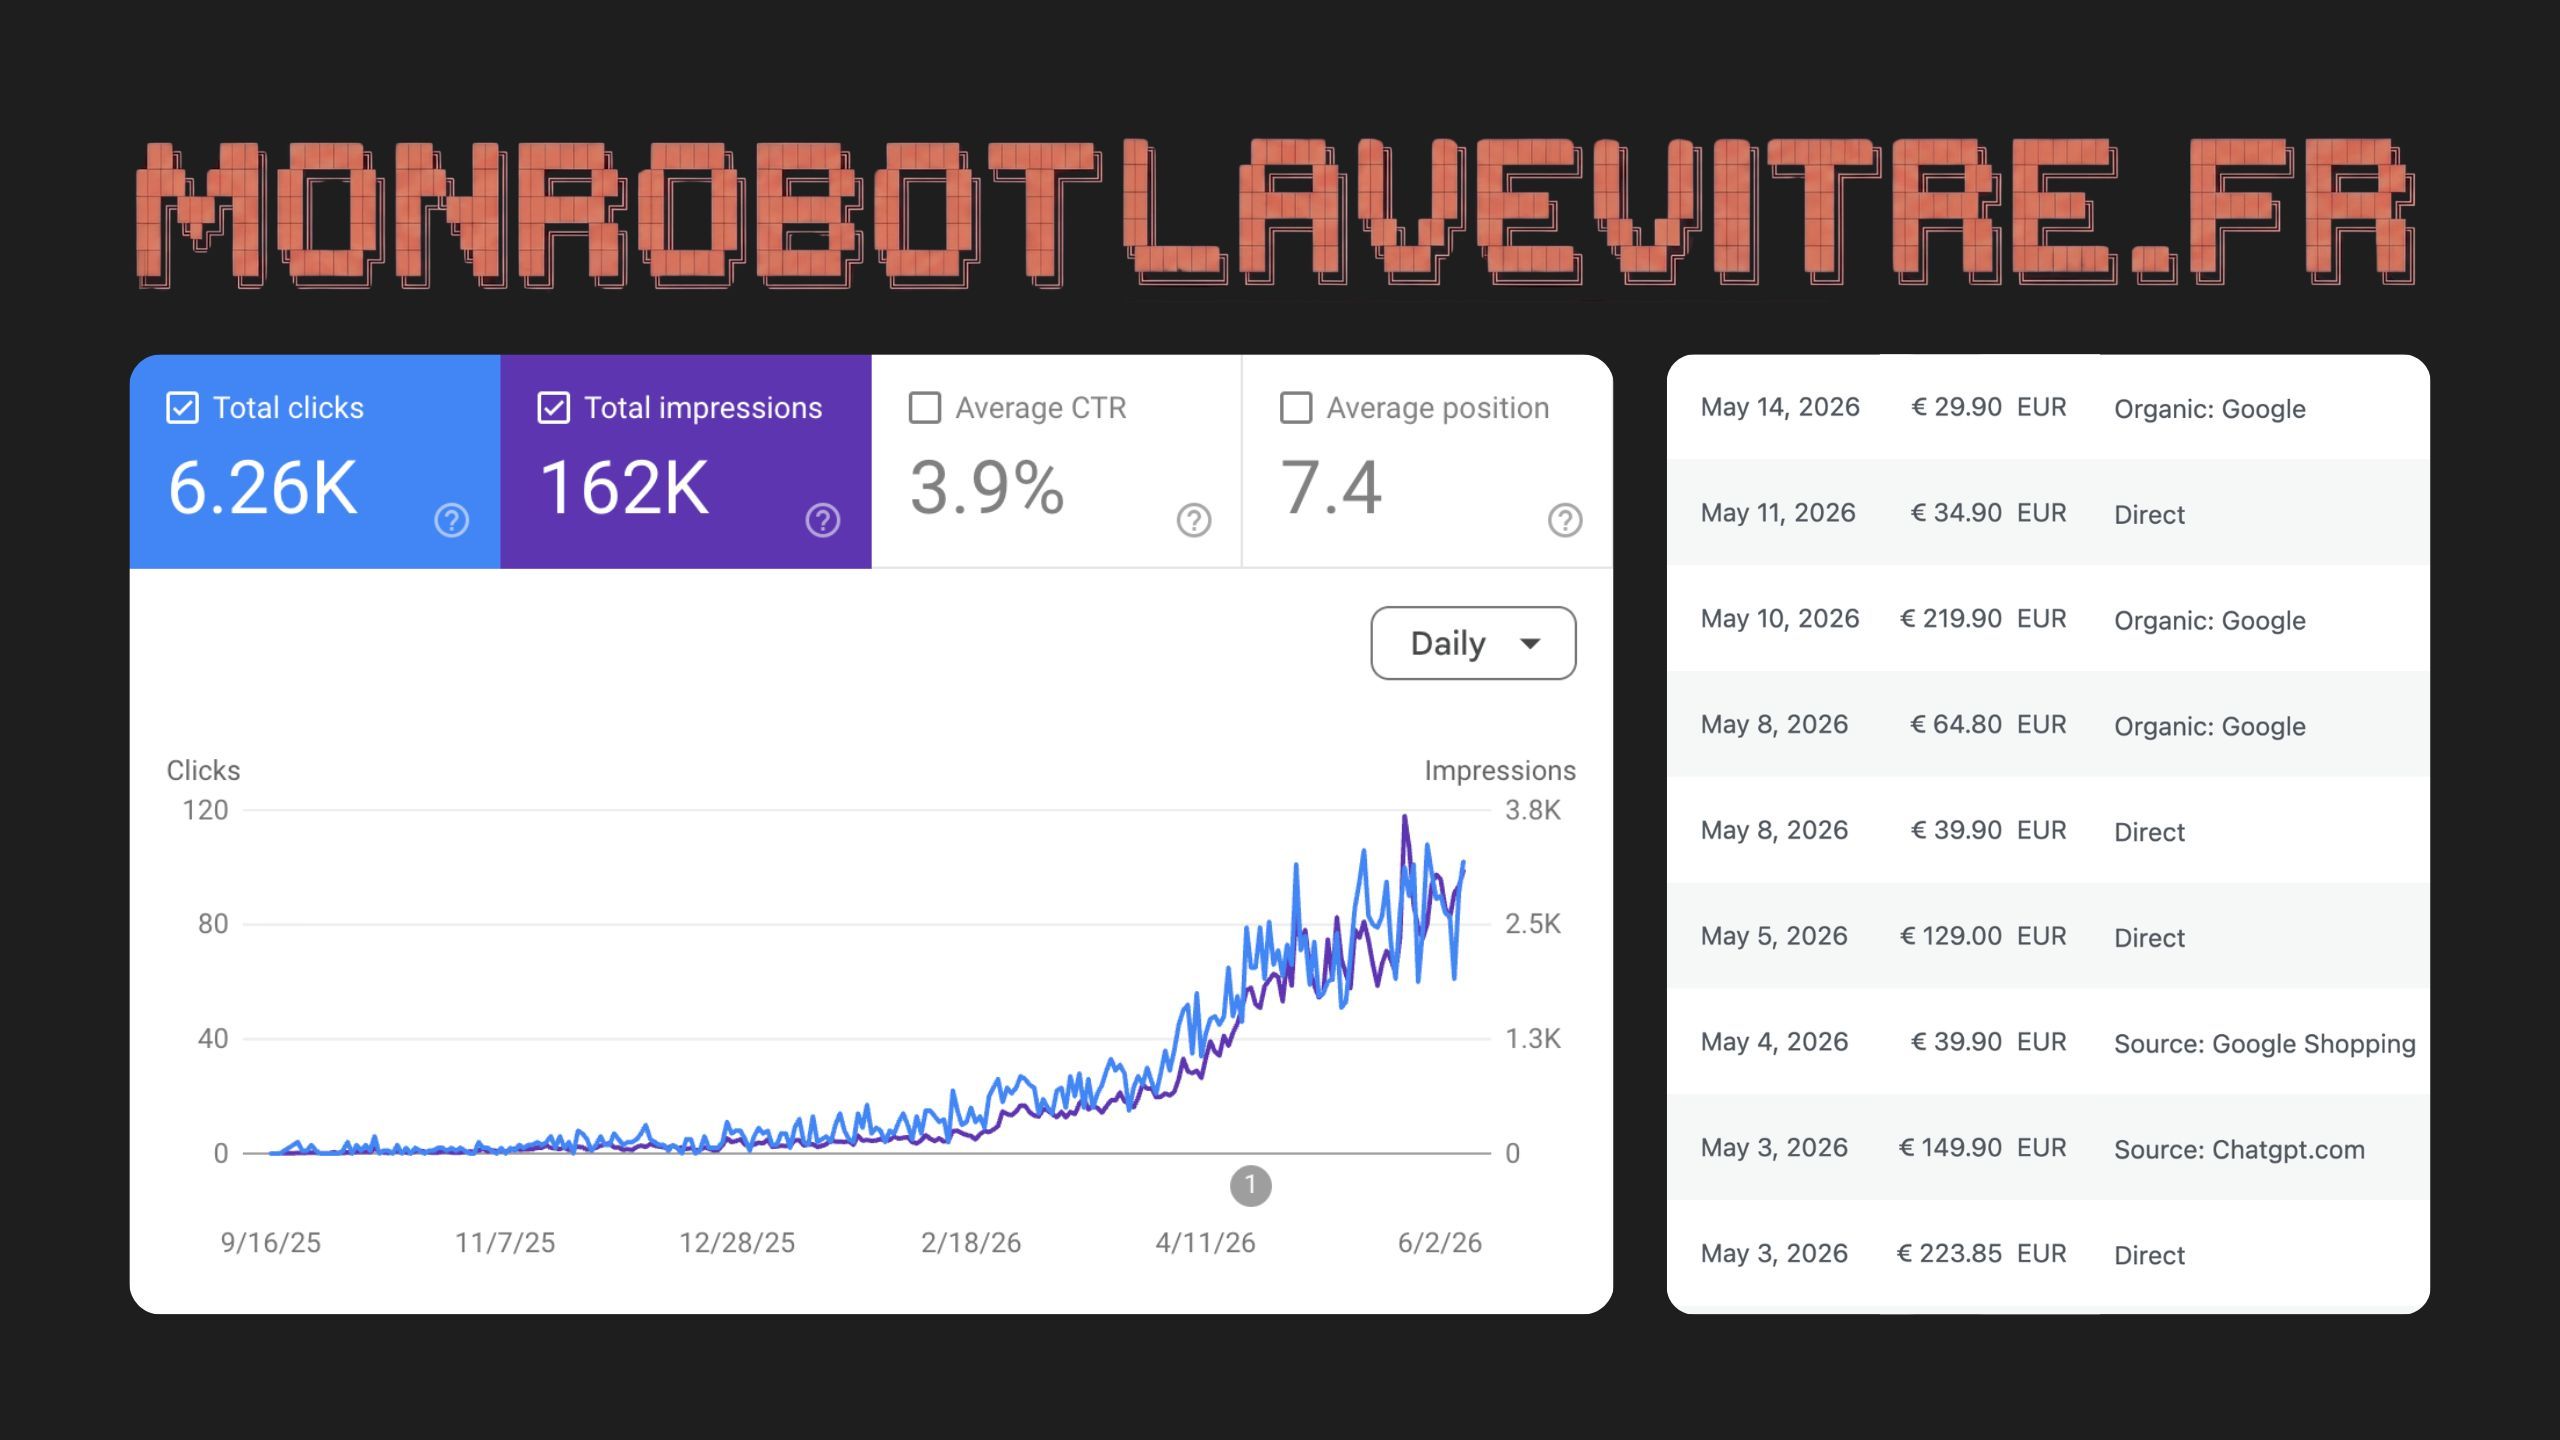
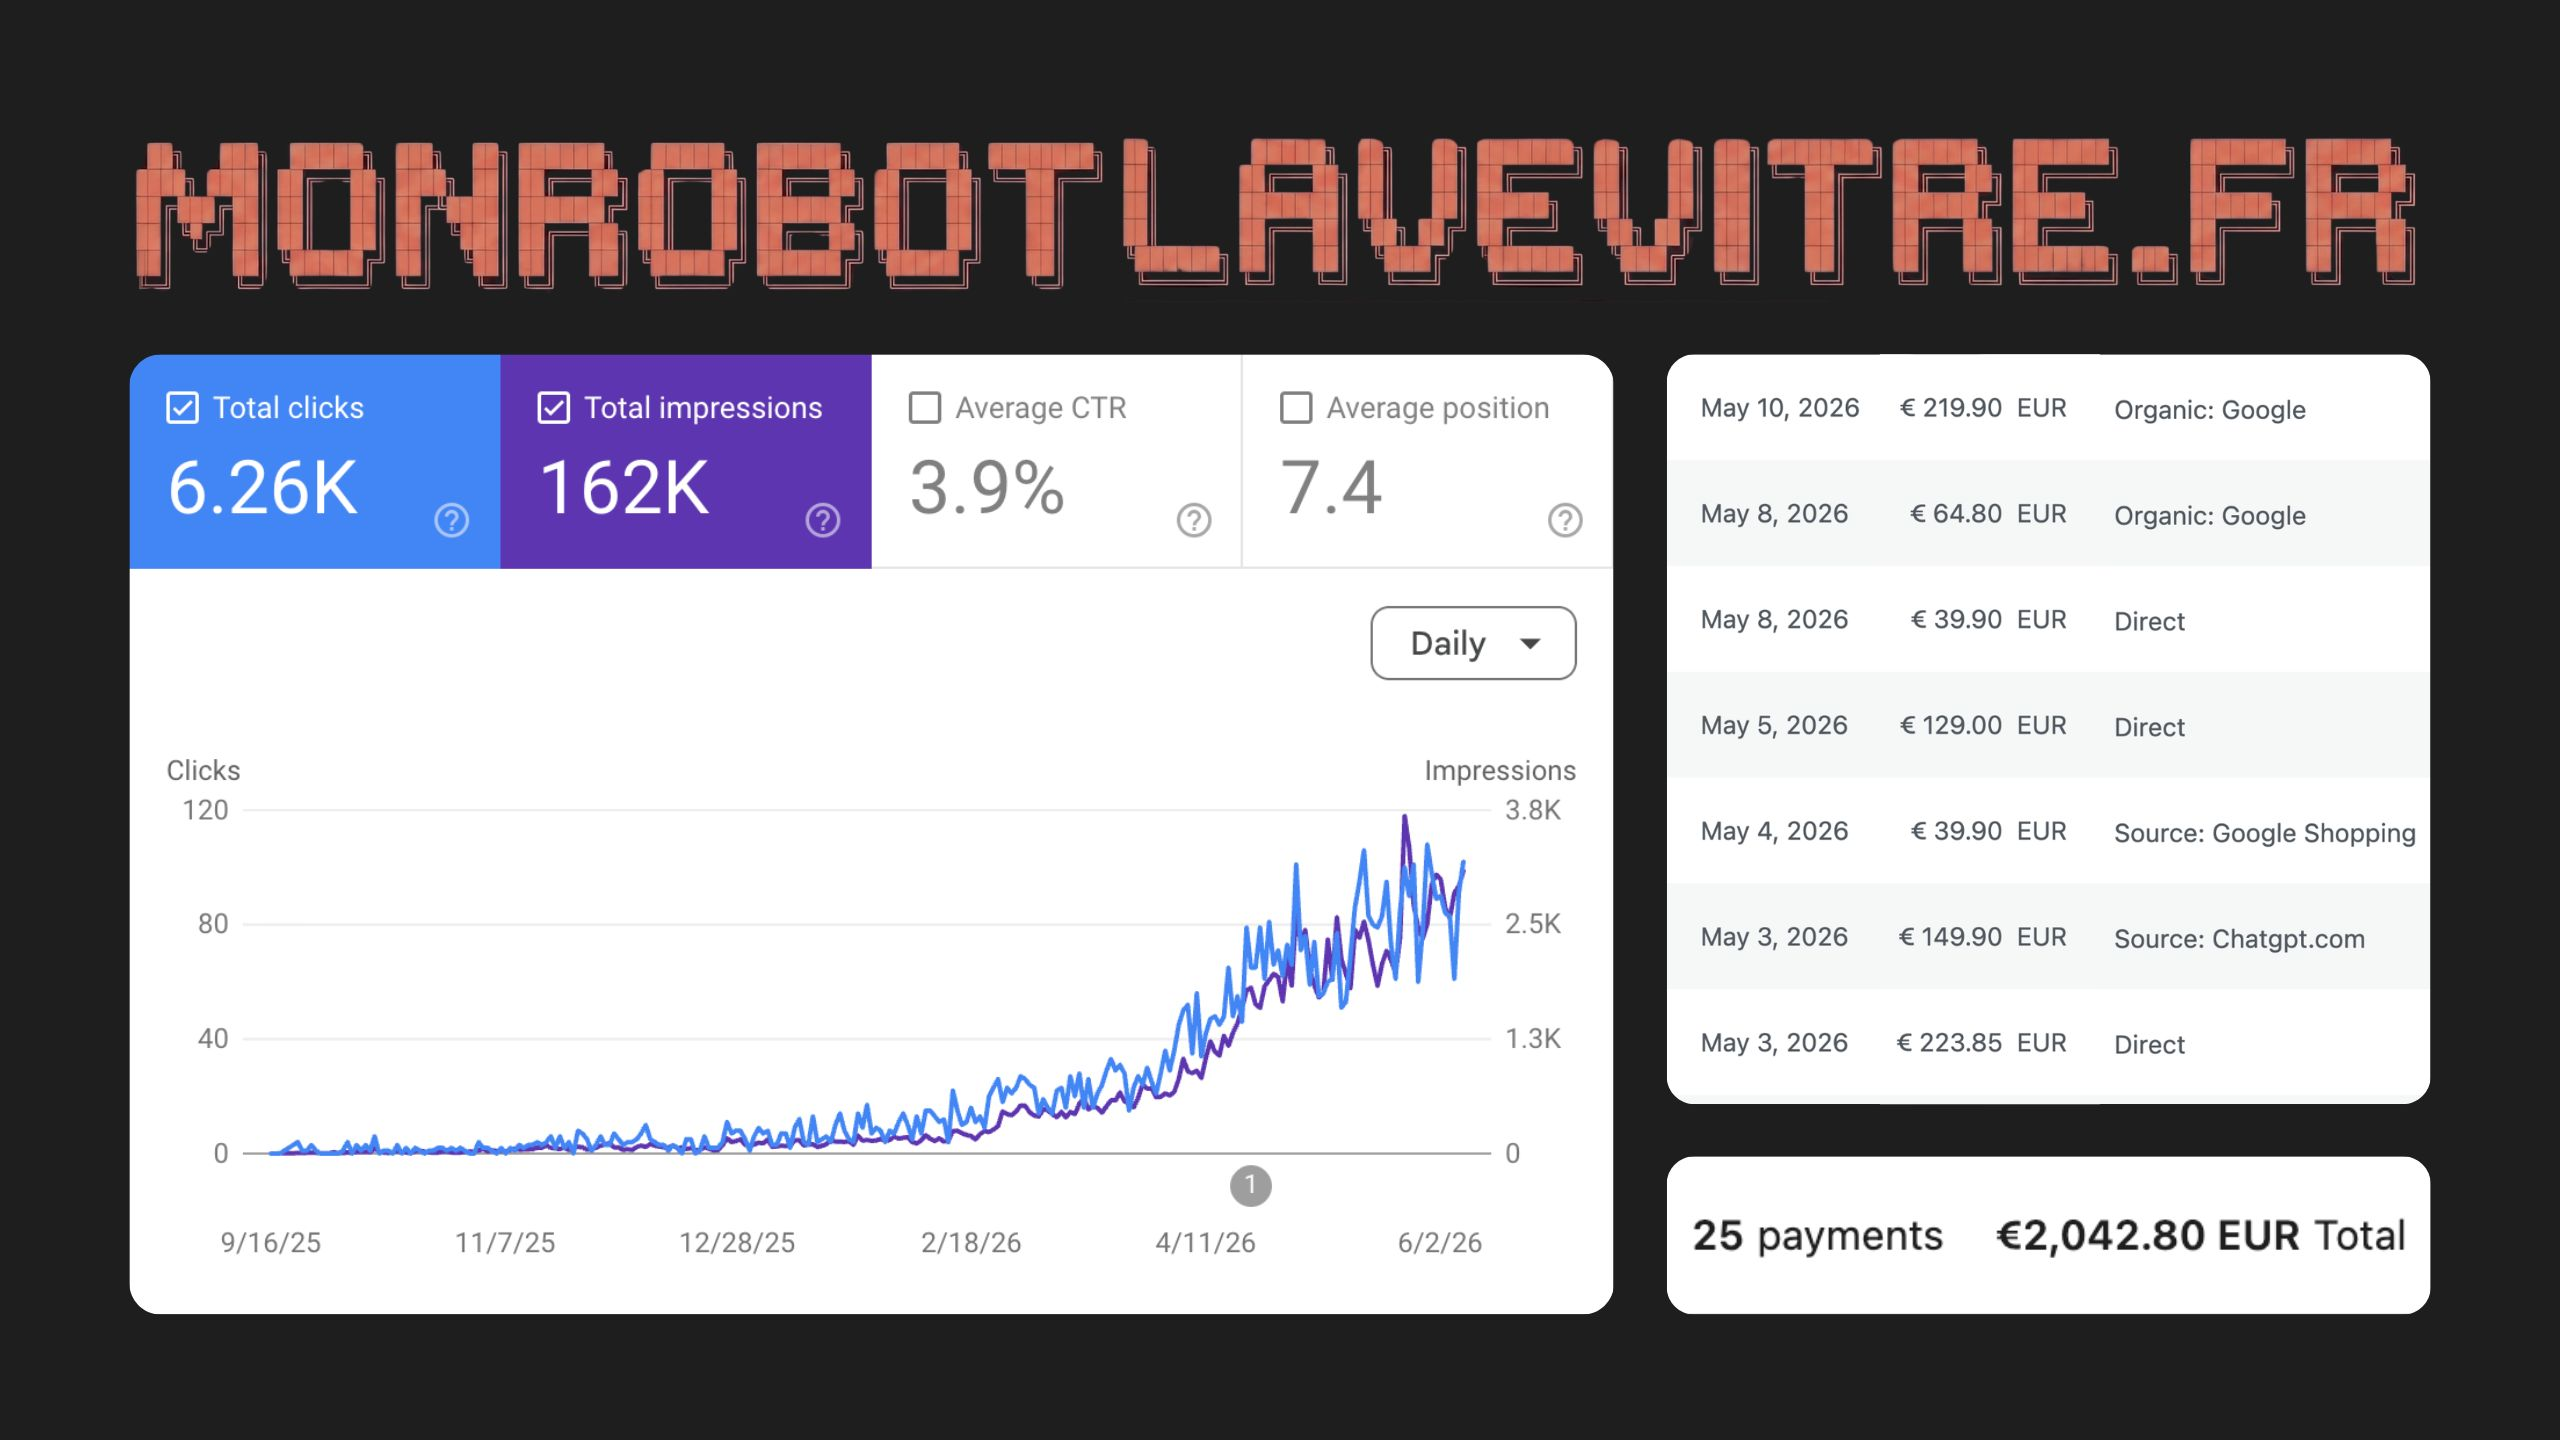
README: update case study image and caption with the order total (25 payments, 2042.80 EUR)

diff --git a/README.md b/README.md
@@ -130,7 +130,7 @@ The checklist is the distilled output of real audit calls conducted by the maint
 
 <p align="center"><img src="assets/case-study.jpg" alt="Search Console growth and sales log for monrobotlavevitre.fr, with an order sourced from ChatGPT" width="100%"></p>
 
-monrobotlavevitre.fr, a French e-commerce store for window-cleaning robots, went from near zero to 6.26K clicks and 162K impressions over the period shown (about nine months), at an average position of 7.4 (left, Google Search Console). The sales log on the right shows where the orders came from: Organic Google, Direct, Google Shopping, and a 149.90 EUR order sourced from ChatGPT. That last line is the point of pairing SEO with GEO: the same method that climbs Google now also turns AI answers into revenue.
+monrobotlavevitre.fr, a French e-commerce store for window-cleaning robots, went from near zero to 6.26K clicks and 162K impressions over the period shown (about nine months), at an average position of 7.4 (left, Google Search Console). The sales log on the right shows where the orders came from: Organic Google, Direct, Google Shopping, and an order sourced from ChatGPT, for 25 payments and 2042.80 EUR total. That ChatGPT line is the point of pairing SEO with GEO: the same method that climbs Google now also turns AI answers into revenue.
 
 ## Prefer the done-for-you version?
 
